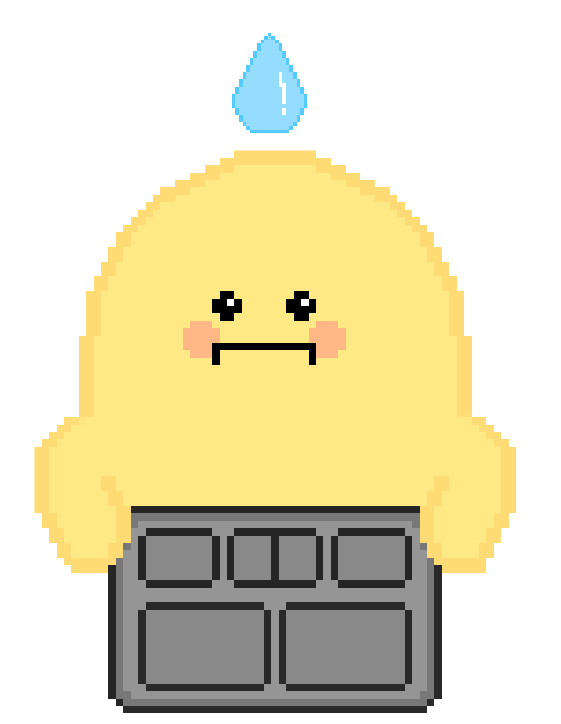
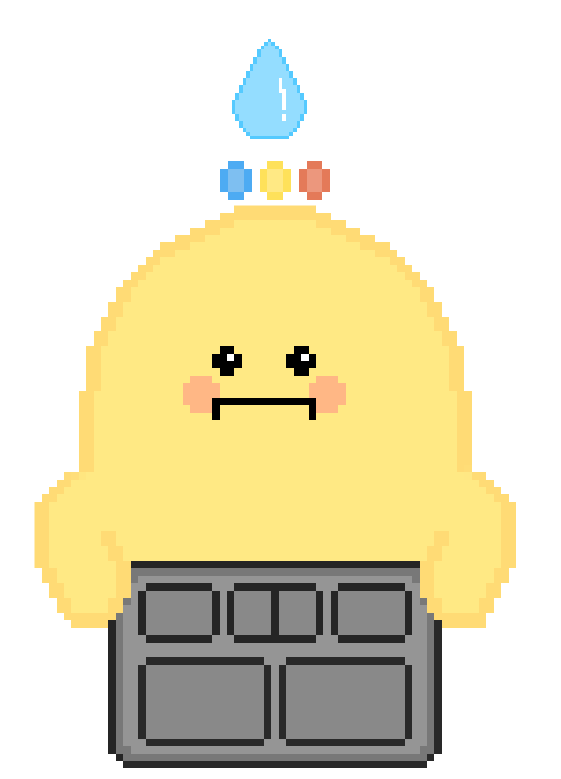
Student Image change
학생들 머리에 전구 담. 학생 프레임 넣음

diff --git a/Assets/Scripts/Manager/NoteManeger.cs b/Assets/Scripts/Manager/NoteManeger.cs
@@ -9,7 +9,7 @@ public class NoteManeger : MonoBehaviour
 
     int spawn_obj=0;
     int StudentNum = 0;
-    Vector3 tfNoteAppear = new Vector3(-1400,0,0);
+    Vector3 tfNoteAppear = new Vector3(-1400,35,0);
 
     EffectManager theEffect;
     ComboManager theComboManager;
@@ -39,7 +39,7 @@ public class NoteManeger : MonoBehaviour
                     if(spawn_obj == 1)                                                                   //랜덤수가 1이라면 식판 든 학생 생성
                     {
                         GameObject StudentO = ObjectPool.instance.StudentOQueue.Dequeue();
-                        StudentO.transform.localPosition = new Vector3(-1400, 0, 0);
+                        StudentO.transform.localPosition = tfNoteAppear;
                         StudentO.SetActive(true);
                     }                                                                   
                     else                                                                                  //랜덤수가 2라면 식판 들지 않은 학생 생성
@@ -59,7 +59,7 @@ public class NoteManeger : MonoBehaviour
     public void ChangeStudentOHappy(int x)
     {
         GameObject StudentOHappy = ObjectPool.instance.StudentOHappyQueue.Dequeue();
-        StudentOHappy.transform.localPosition = new Vector3(x, 0, 0);
+        StudentOHappy.transform.localPosition = new Vector3(x, 35, 0);
         StudentOHappy.SetActive(true);
         StartCoroutine(DelayTime(StudentOHappy));
         ObjectPool.instance.StudentOHappyQueue.Enqueue(StudentOHappy);
@@ -67,7 +67,7 @@ public class NoteManeger : MonoBehaviour
     public void ChangeStudentOSad(int x)
     {
         GameObject StudentOSad = ObjectPool.instance.StudentOSadQueue.Dequeue();
-        StudentOSad.transform.localPosition = new Vector3(x, 0, 0);
+        StudentOSad.transform.localPosition = new Vector3(x, 35, 0);
         StudentOSad.SetActive(true);
         StartCoroutine(DelayTime(StudentOSad));
         ObjectPool.instance.StudentOSadQueue.Enqueue(StudentOSad);
@@ -75,7 +75,7 @@ public class NoteManeger : MonoBehaviour
     public void ChangeStudentXHappy(int x)
     {
         GameObject StudentXHappy = ObjectPool.instance.StudentXHappyQueue.Dequeue();
-        StudentXHappy.transform.localPosition = new Vector3(x, 0, 0);
+        StudentXHappy.transform.localPosition = new Vector3(x, 35, 0);
         StudentXHappy.SetActive(true);
         StartCoroutine(DelayTime(StudentXHappy));
         ObjectPool.instance.StudentXHappyQueue.Enqueue(StudentXHappy);
@@ -83,7 +83,7 @@ public class NoteManeger : MonoBehaviour
     public void ChangeStudentXSad(int x)
     {
         GameObject StudentXSad = ObjectPool.instance.StudentXSadQueue.Dequeue();
-        StudentXSad.transform.localPosition = new Vector3(x, 0, 0);
+        StudentXSad.transform.localPosition = new Vector3(x, 35, 0);
         StudentXSad.SetActive(true);
         StartCoroutine(DelayTime(StudentXSad));
         ObjectPool.instance.StudentXSadQueue.Enqueue(StudentXSad);
